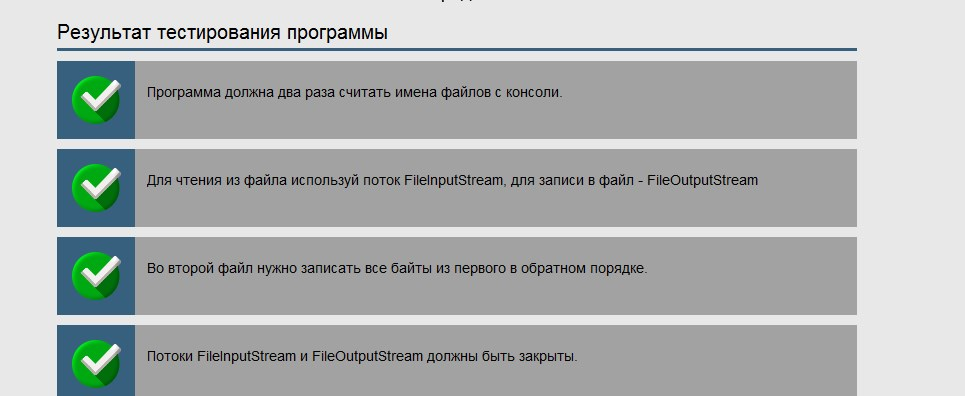
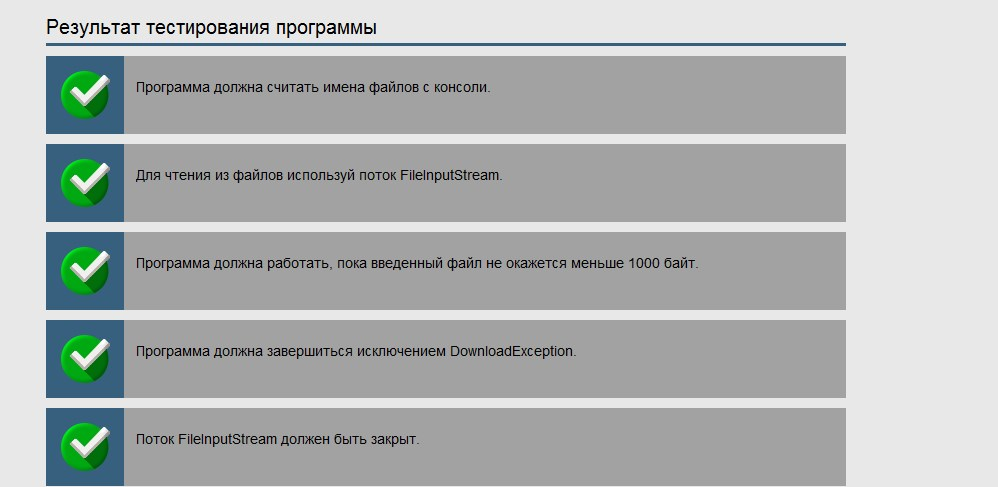
DownloadException
task18.task1810;

Changed region(s): [[0.0311, 0.0303, 0.9016, 1.0]]

diff --git a/JavaRushTasks/JavaRushTasks/2.JavaCore/src/com/javarush/task/task18/task1810/Solution.java b/JavaRushTasks/JavaRushTasks/2.JavaCore/src/com/javarush/task/task18/task1810/Solution.java
@@ -1,0 +1,21 @@
+package com.javarush.task.task18.task1810;
+
+/* 
+DownloadException
+1 Считывать с консоли имена файлов.
+2 Если файл меньше 1000 байт, то:
+2.1 Закрыть потоки работы с файлами.
+2.2 Выбросить исключение DownloadException.
+*/
+
+import java.io.*;
+
+public class Solution {
+    public static void main(String[] args) throws DownloadException, IOException {
+        
+        }
+
+    public static class DownloadException extends Exception {
+
+    }
+}
